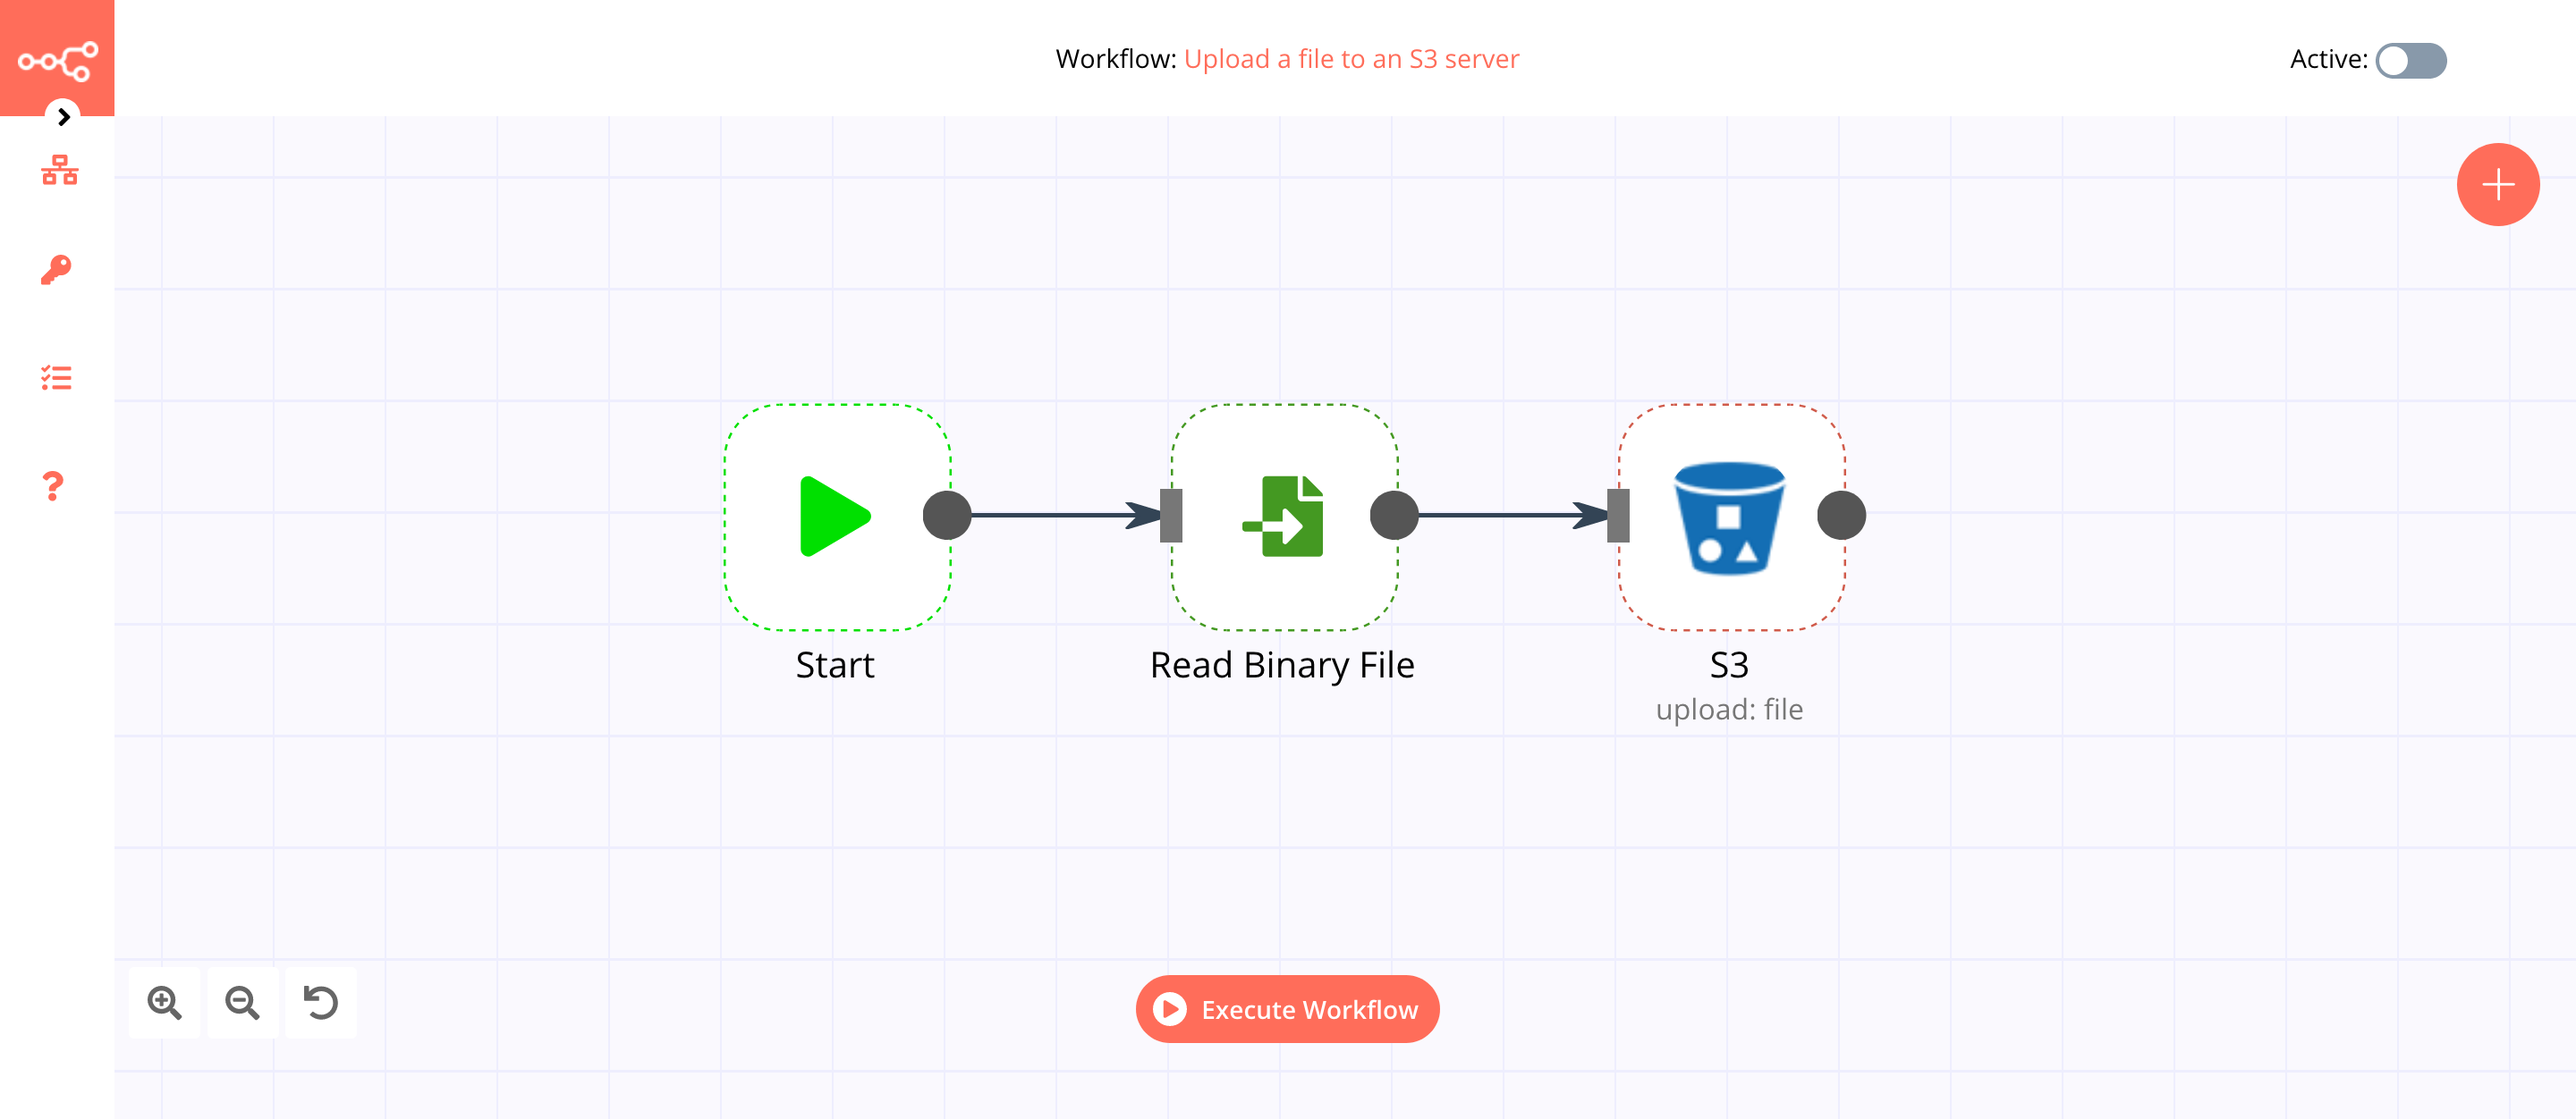
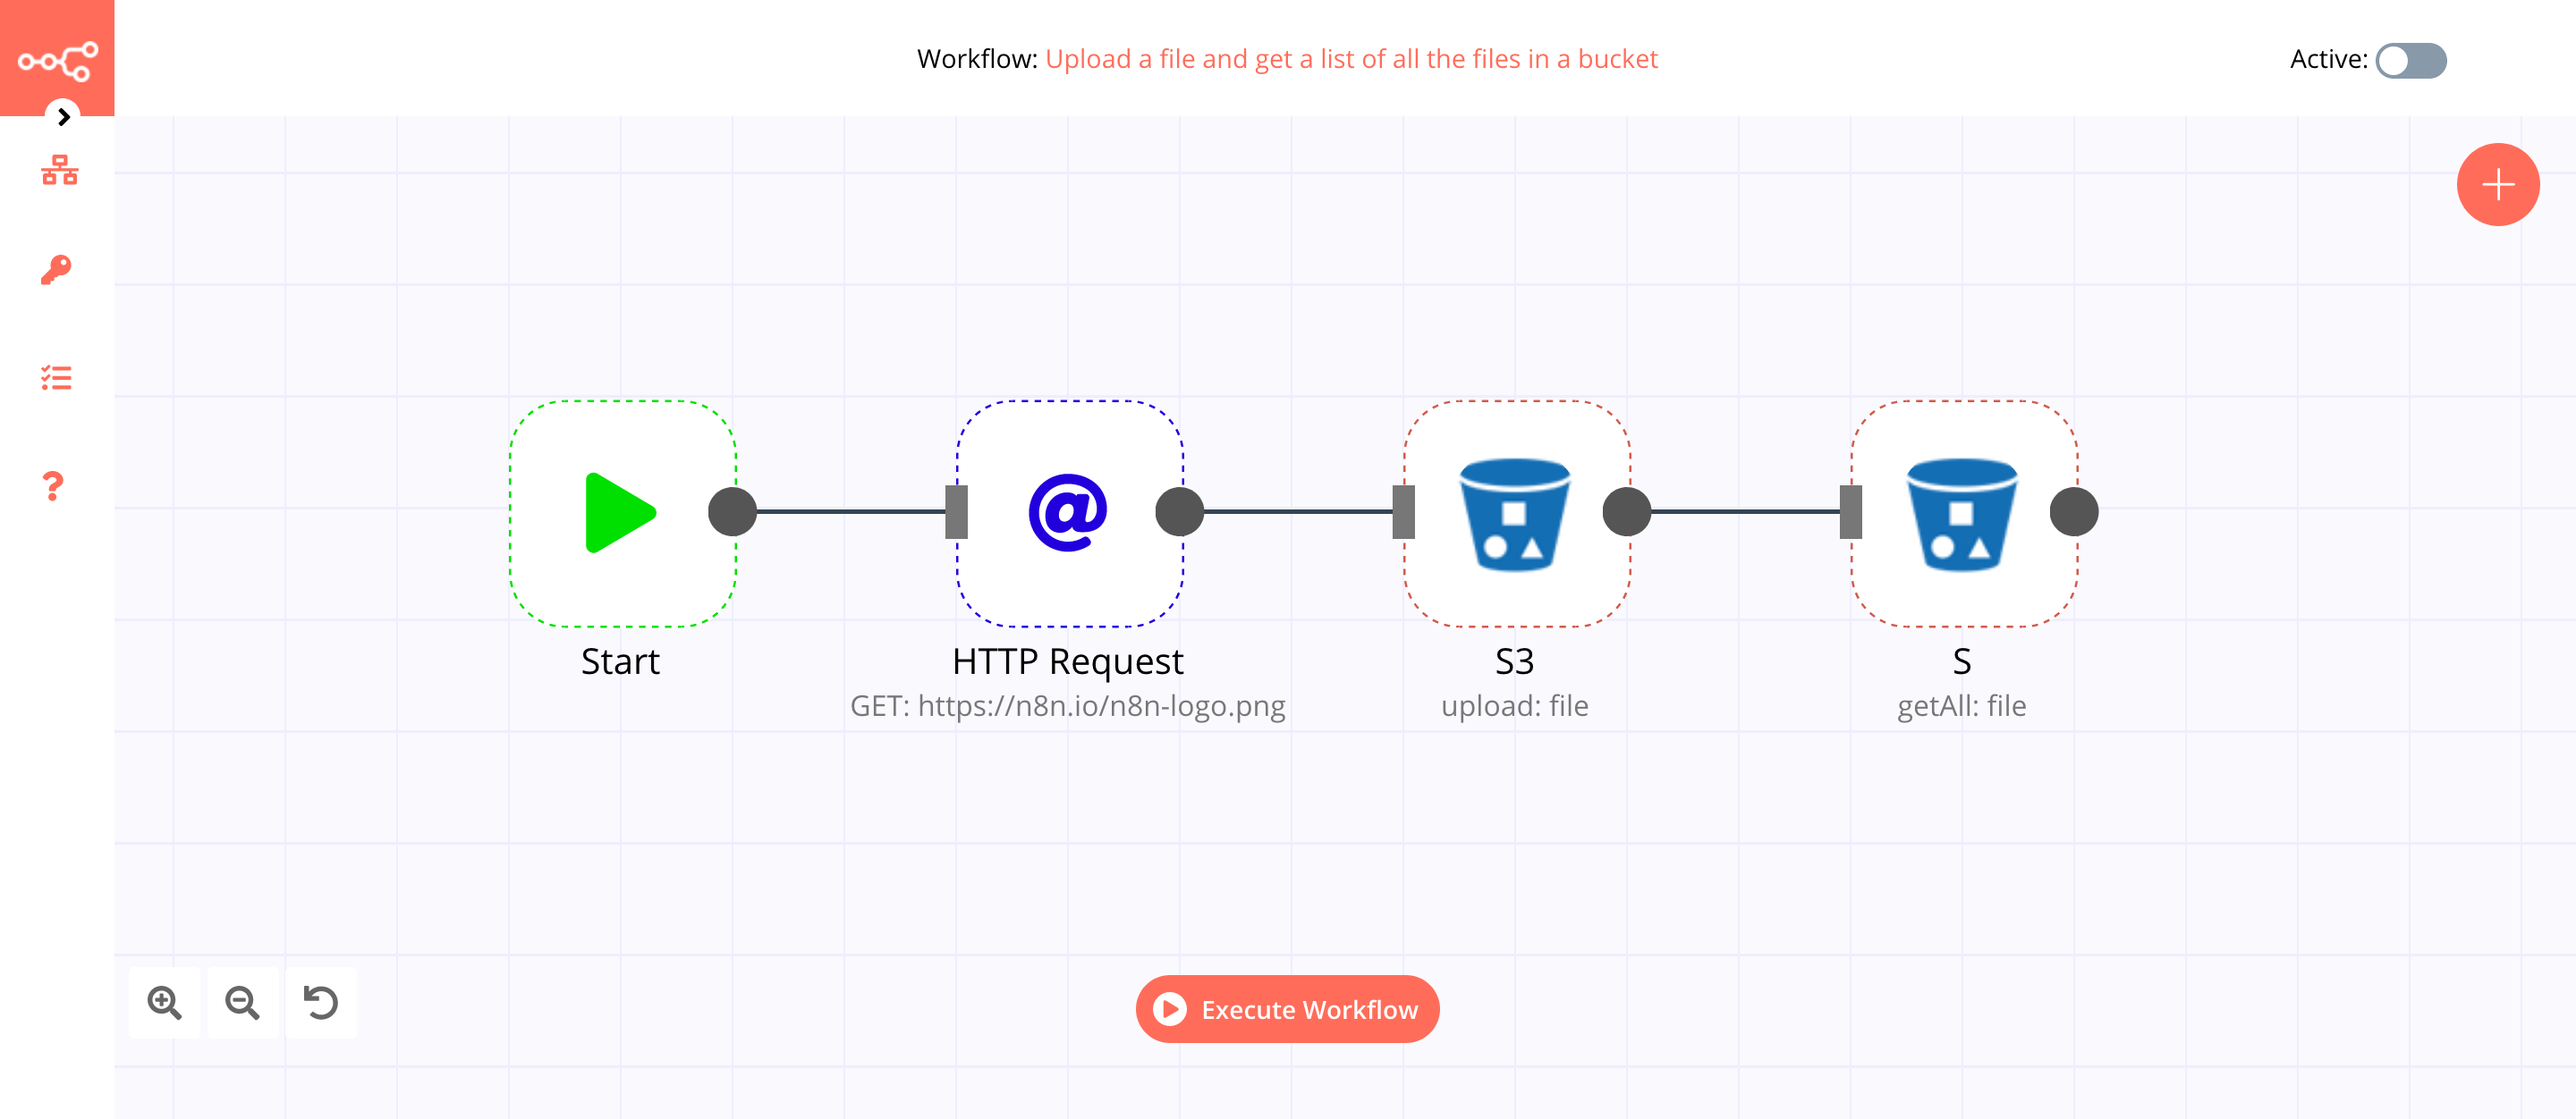
:hammer: Workflow Update

diff --git a/docs/nodes/nodes-library/nodes/S3/README.md b/docs/nodes/nodes-library/nodes/S3/README.md
@@ -27,12 +27,13 @@ You can find authentication information for this node [here](../../../credential
     - Delete a folder
     - Get all folders
 
+**Note:** To attach a file for upload, you will need to use an additional node such as the [Read Binary File](../../core-nodes/ReadBinaryFile/README.md) node or the [HTTP Request](../../core-nodes/HTTPRequest/README.md) node to pass the file as a data property.
 
 ## Example Usage
 
-This workflow allows you to upload a file to an S3 compatible server. You can also find the [workflow](https://n8n.io/workflows/673) on n8n.io. This example usage workflow would use the following nodes.
+This workflow allows you to upload a file to an S3 compatible server and get a list of all the files in a bucket using the S3 node. You can also find the [workflow](https://n8n.io/workflows/674) on n8n.io. This example usage workflow would use the following nodes.
 - [Start](../../core-nodes/Start/README.md)
-- [Read Binary File](../../core-nodes/ReadBinaryFile/README.md)
+- [HTTP Request](../../core-nodes/HTTPRequest/README.md)
 - [S3]()
 
 The final workflow should look like the following image.
@@ -44,23 +45,34 @@ The final workflow should look like the following image.
 The start node exists by default when you create a new workflow.
 
 
-### 2. Read Binary File node
+### 2. HTTP Request node (GET)
 
-1. Enter the file path in the ***File Path*** field.
-2. Click on ***Execute Node*** to run the node.
+1. Enter the URL of the file in the ***URL*** field.
+2. Select 'File' from the ***Response Format*** field.
+3. Click on ***Execute Node*** to run the node.
 
-![Using the Read Binary File node to read a file](./ReadBinaryFile_node.png)
+![Using the HTTP Request node to get a file](./HTTPRequest_node.png)
 
 
 ### 3. S3 node (upload: file)
 
-1. First of all, you'll have to enter credentials for the QuestDB node. You can find out how to do that [here](../../../credentials/S3/README.md).
+1. First of all, you'll have to enter credentials for the S3 node. You can find out how to do that [here](../../../credentials/S3/README.md).
 2. Select 'Upload' from the ***Operation*** dropdown list.
 3. Enter the bucket name in the ***Bucket Name*** field.
 4. Click on the gears icon next to the ***File Name*** field and click on ***Add Expression***.
 ::: v-pre
-5. Select the following in the ***Variable Selector*** section: Nodes > Read Binary File > Output Data > Binary > data > fileName. You can also add the following expression: `{{$node["Read Binary File"].binary.data.fileName}}`.
+5. Select the following in the ***Variable Selector*** section: Nodes > HTTP Request > Output Data > Binary > data > fileName. You can also add the following expression: `{{$node["HTTP Request"].binary.data.fileName}}`
 6. Click on ***Execute Node*** to run the node.
 :::
 
 ![Using the S3 node to upload a file to a bucket](./S3_node.png)
+
+### 4. S node (getAll: file)
+
+1. Select the credentials that you entered in the previous node.
+2. Select 'Get All' from the ***Operation*** dropdown list.
+3. Enter the bucket name in the ***Bucket Name*** field.
+4. Toggle ***Return All*** to true.
+5. Click on ***Execute Node*** to run the node.
+
+![Using the S3 node to get a list of all the files in a bucket](./S_node.png)
